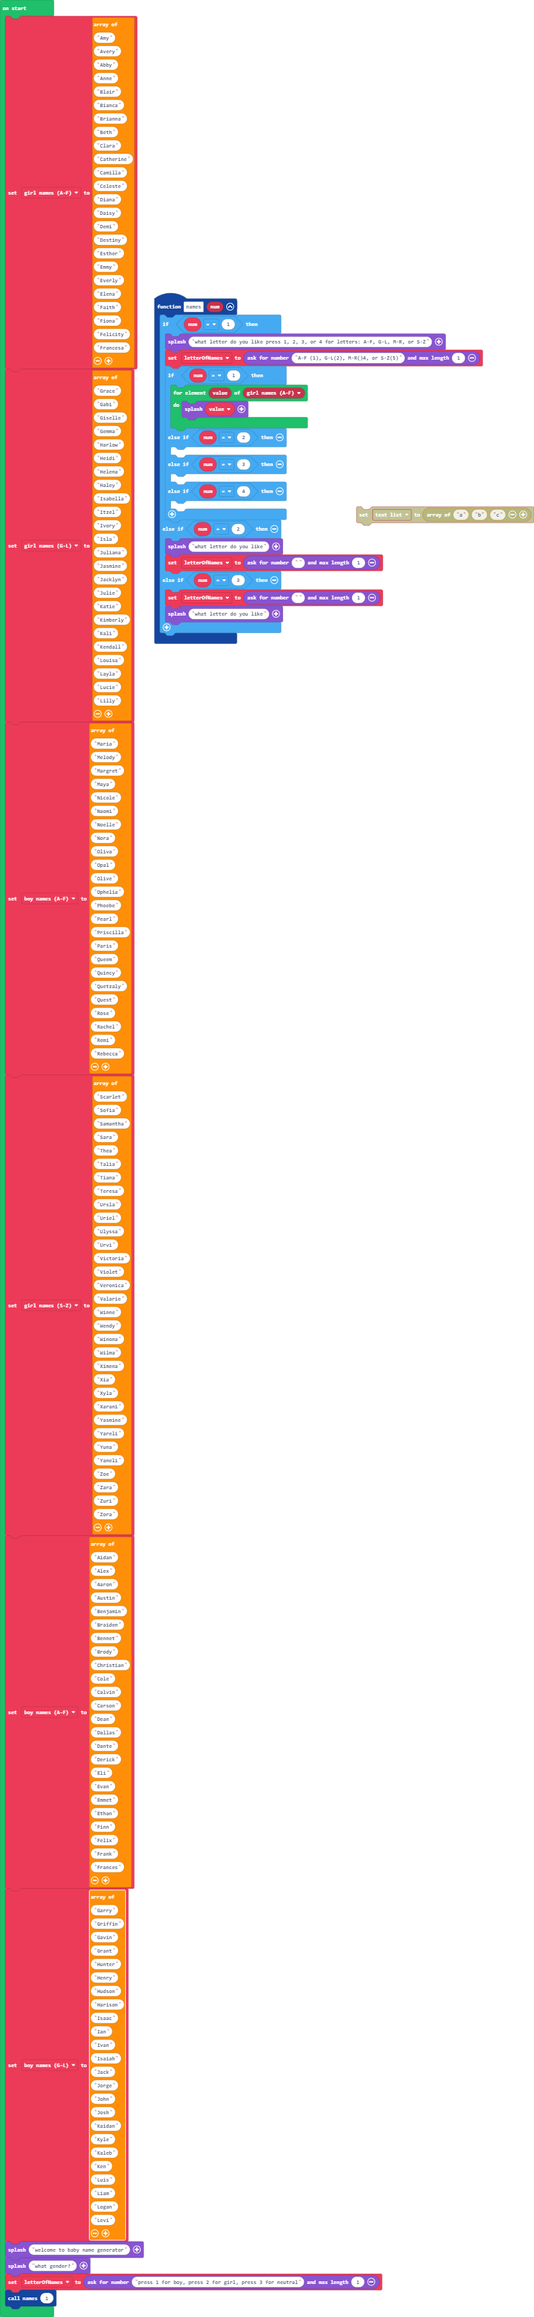
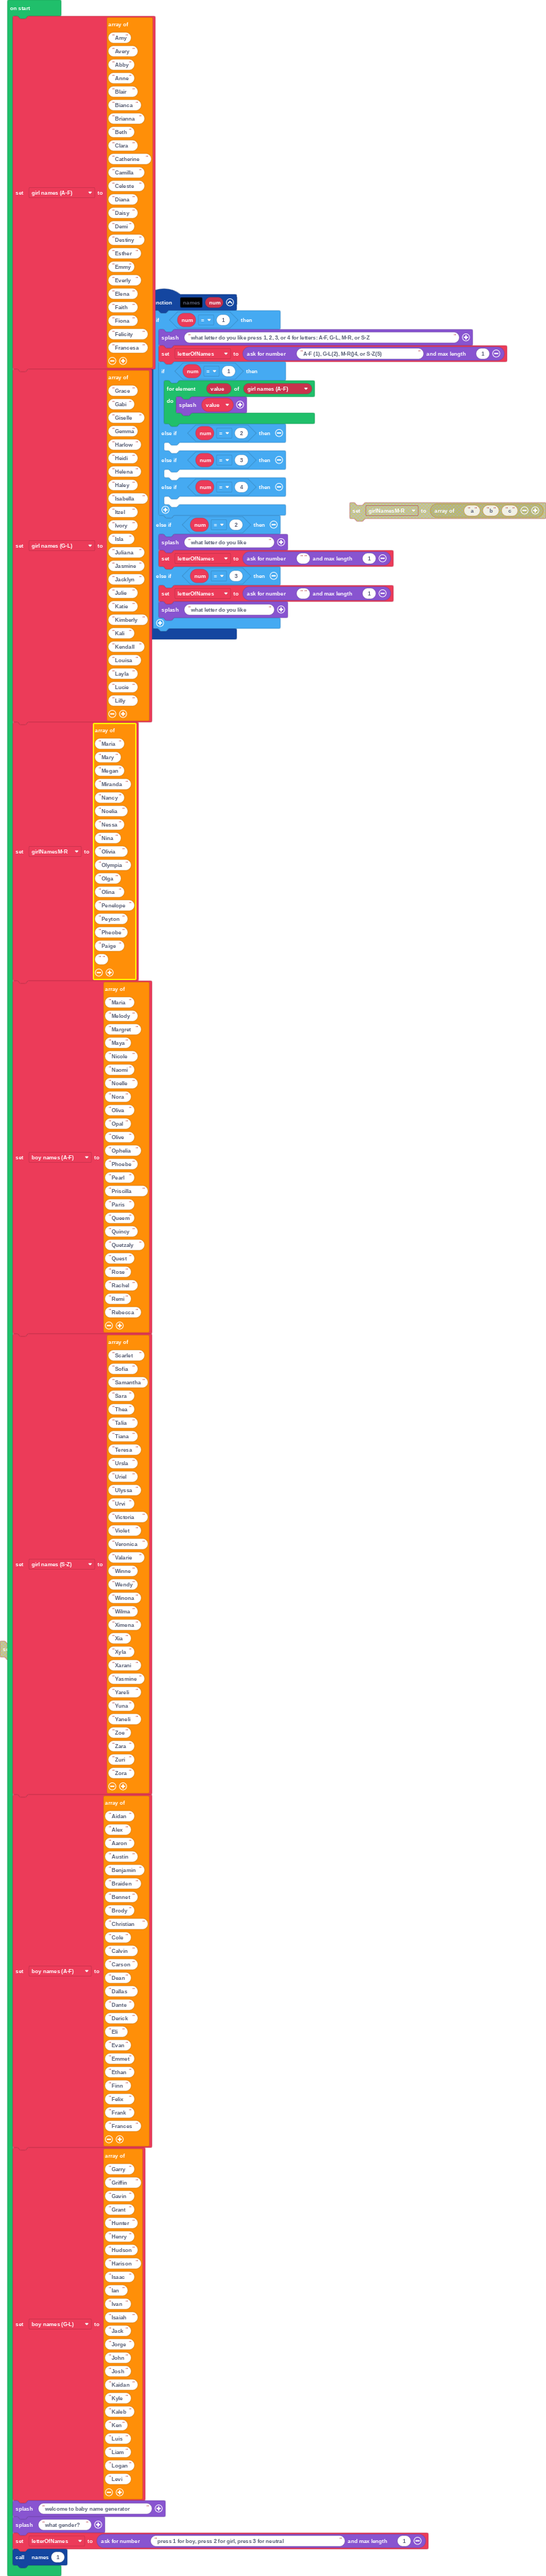
Update pxt.json, main.blocks, main.ts

Changed region(s): [[0.0, 0.0, 1.0, 1.0], [0.0908, 0.0, 0.1211, 0.0311]]

diff --git a/main.ts b/main.ts
@@ -75,6 +75,25 @@ let girl_names_GL = [
 "Lucie",
 "Lilly"
 ]
+let girlNamesMR = [
+"Maria",
+"Mary",
+"Megan",
+"Miranda",
+"Nancy",
+"Noelia",
+"Nessa",
+"Nina",
+"Olivia",
+"Olympia",
+"Olga",
+"Olina",
+"Penelope",
+"Peyton",
+"Pheobe",
+"Paige",
+""
+]
 let boy_names_AF = [
 "Maria",
 "Melody",
